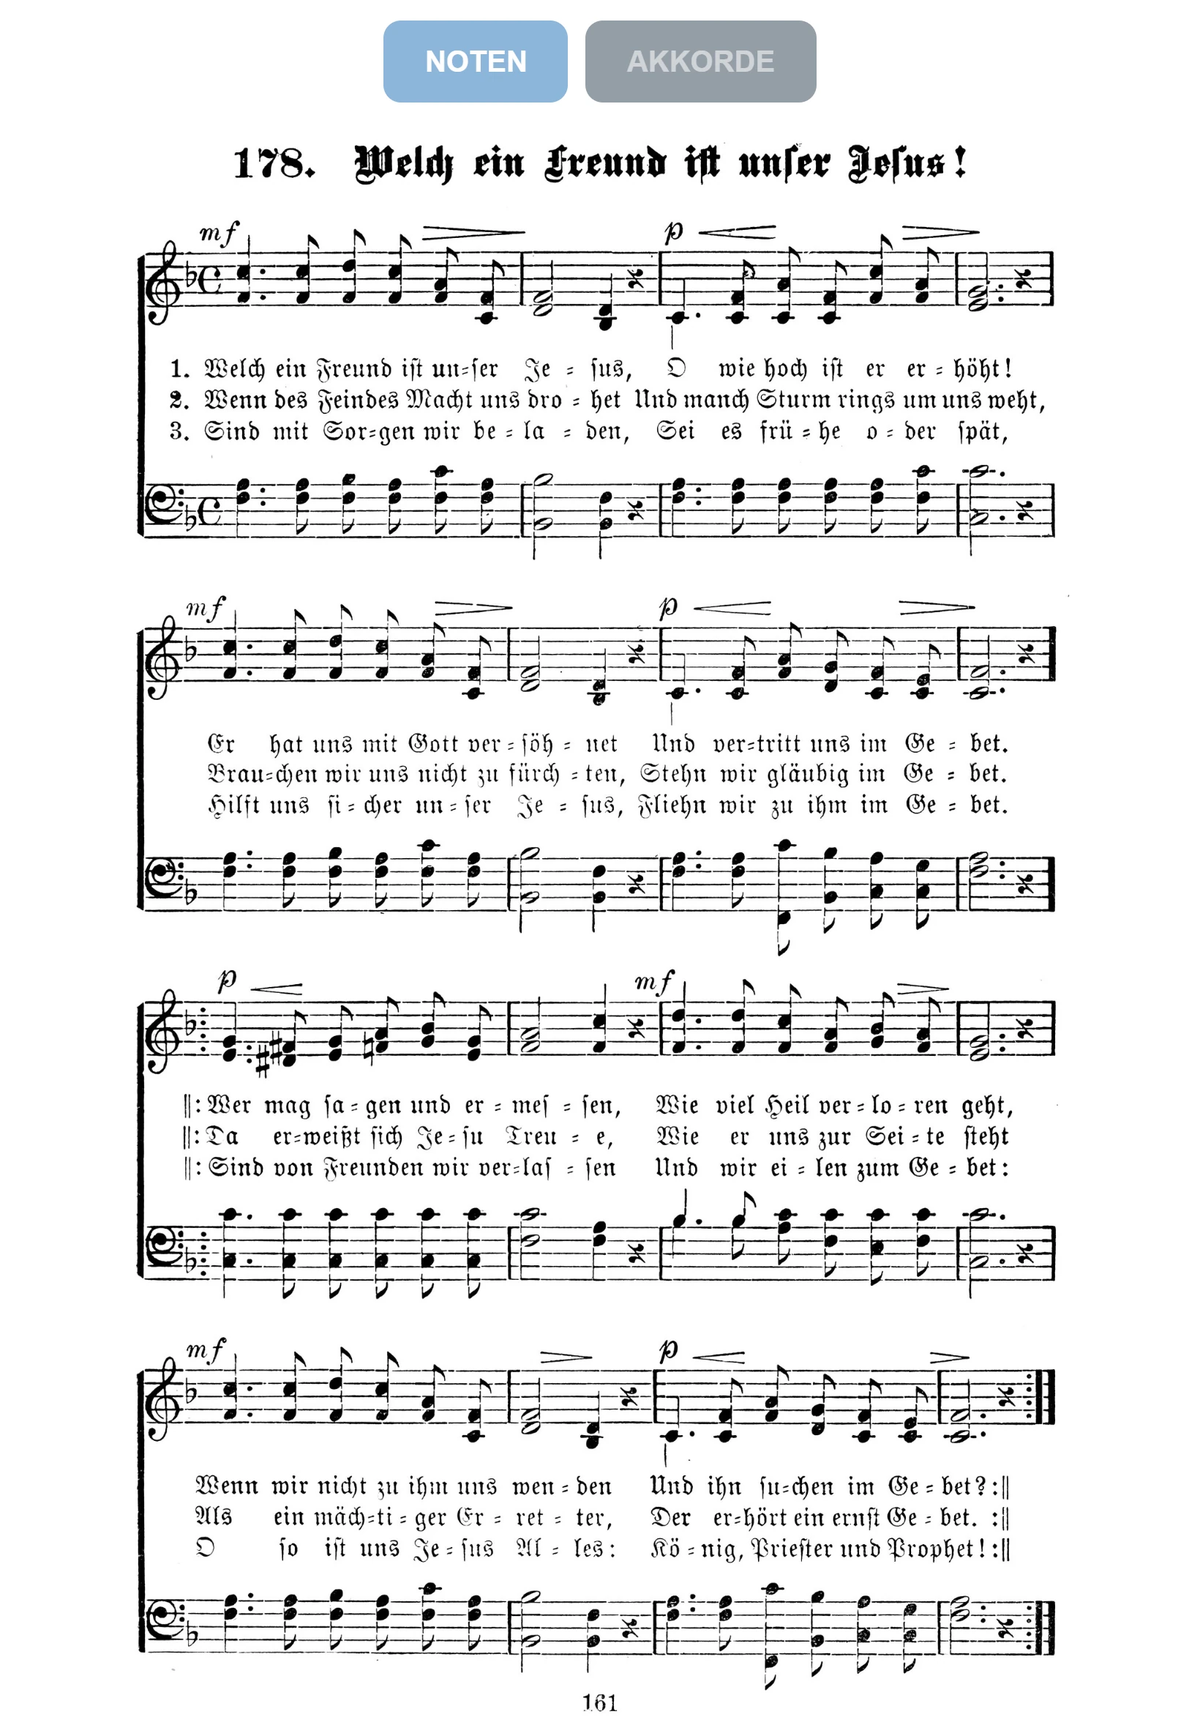
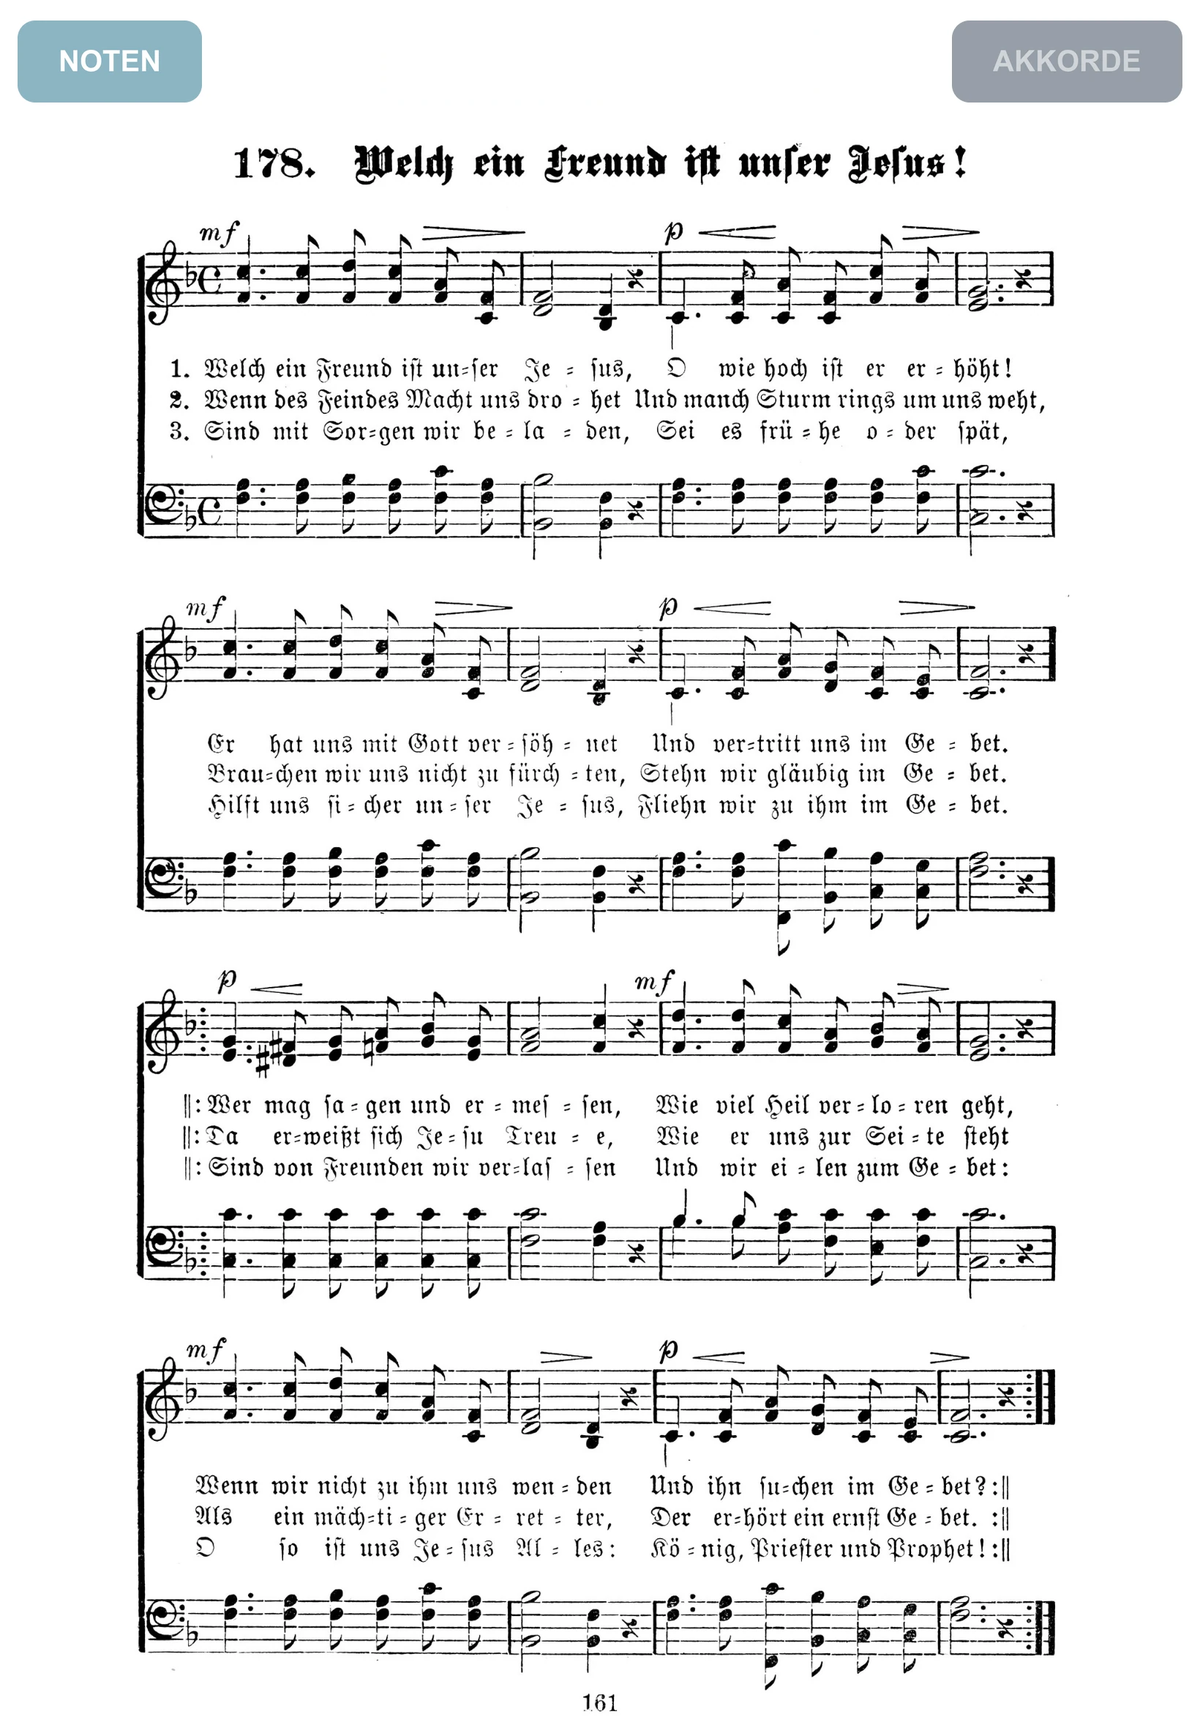
Musician: group buttons pinned to the edges; landing shots updated
- musician.html: .mg-bar justify-content space-between — the first group
  («Ноты») sits at the left edge, the last («Аккорды») at the right one,
  the song title in the middle of the sheet stays readable.
- message.lv: musician shots (all 5 languages) redrawn with the new button
  layout; sermon shots (ru/en/de/lt) repainted with the chip text colours of
  the current display code (fitChipText, Nov 2026) — the active Bible quote
  was blue on blue. pl shows a slide and is unchanged. Shot URLs versioned
  (SHOT_VERSION / ?v=2) so browsers drop the cached old files.

Claude-Session: https://claude.ai/code/session_01CWHqS5LRsXjYAEpUnYvA5j

Changed region(s): [[0.311, 0.0, 0.6841, 0.0619], [0.7774, 0.0, 0.9951, 0.0619], [0.0, 0.0, 0.1866, 0.0619]]

diff --git a/public/message.lv/index.html b/public/message.lv/index.html
@@ -36,11 +36,11 @@
 <section class="summary"><div class="wrap summary-grid"><div class="summary-item"><b data-t="introLibrary">Материалы в одном месте</b><span data-t="introLibraryCopy">Песни, ноты, переводы Библии, Послания и проповеди.</span></div><div class="summary-item"><b data-t="introRoles">Инструменты по роли</b><span data-t="introRolesCopy">У каждого участника свой рабочий экран.</span></div><div class="summary-item"><b data-t="introSync">Обновления без пересылки</b><span data-t="introSyncCopy">Выбранная песня и её куплеты доступны технику.</span></div></div></section>
 <section class="section wrap"><header class="section-head"><div class="eyebrow" data-t="rolesEyebrow">Команда</div><div><h2 data-t="rolesTitle">Для каждого участника есть свой режим</h2><p class="deck" data-t="rolesDeck">Набор действий зависит от того, что человек делает во время служения.</p></div></header><div class="channels"><article class="channel"><span class="channel-icon">🎤</span><h3 data-t="roleLeader">Ведущий</h3><p data-t="roleLeaderCopy">Выбор песен, ноты и возможность самому переключать куплеты.</p></article><article class="channel"><span class="channel-icon">🎸</span><h3 data-t="roleMusician">Музыкант</h3><p data-t="roleMusicianCopy">Актуальная песня, выбранная группа изображений и крупные ноты.</p></article><article class="channel"><span class="channel-icon">🎹</span><h3 data-t="rolePiano">Пианист</h3><p data-t="rolePianoCopy">Личный список песен без влияния на общий экран.</p></article><article class="channel"><span class="channel-icon">👀</span><h3 data-t="roleObserver">Наблюдатель</h3><p data-t="roleObserverCopy">Песни, Библия, Послания и история на телефоне.</p></article><article class="channel"><span class="channel-icon">🖥</span><h3 data-t="roleTech">Техник</h3><p data-t="roleTechCopy">Экраны, тексты, переводы, медиа и плейлист.</p></article><article class="channel"><span class="channel-icon">📖</span><h3 data-t="rolePreacher">Проповедник</h3><p data-t="rolePreacherCopy">Редактор заметок и управление материалами во время речи.</p></article><article class="channel"><span class="channel-icon">⚙</span><h3 data-t="roleAdmin">Администратор</h3><p data-t="roleAdminCopy">Пользователи, сборники, языки, экраны и импорт.</p></article><article class="channel"><span class="channel-icon">📡</span><h3 data-t="roleScreens">Экраны</h3><p data-t="roleScreensCopy">Раздельная выдача для зала и видеотрансляции.</p></article></div></section>
 <section class="section wrap"><header class="section-head"><div class="eyebrow" data-t="scenariosEyebrow">Три сценария</div><div><h2 data-t="scenariosTitle">Как система помогает во время служения</h2><p class="deck" data-t="scenariosDeck">Три обычные задачи: работа с песнями, проведение проповеди и доступ к текстам на телефоне.</p></div></header><div class="scenarios"><article class="scenario"><div class="visual"><button class="zoom"><img loading="lazy" data-scene="worship-hall" src="images/worship-hall-ru.png" alt="Прославление в зале"></button></div><div class="scenario-copy"><h3 data-t="worshipTitle">Прославление в зале</h3><p data-t="worshipCopy">Ведущий собирает порядок песен и выбирает песню. Её куплеты появляются у техника, который обычно переключает их на экранах. При необходимости ведущий может переключать куплеты сам. Музыканты видят ноты или аккорды.</p><div class="tags"><span class="tag" data-t="tagSetlist">Порядок песен</span><span class="tag" data-t="tagNotes">Ноты и аккорды</span><span class="tag" data-t="tagStream">Зал + трансляция</span></div></div></article><article class="scenario"><div class="visual"><button class="zoom"><img loading="lazy" data-scene="sermon-hall" src="images/sermon-hall-ru.png" alt="Проповедь в зале"></button></div><div class="scenario-copy"><h3 data-t="sermonTitle">Подготовка и проведение проповеди</h3><p data-t="sermonCopy">Проповедник готовит личные заметки, вставляет цитаты Библии, изображения, видео и слайды. Во время проповеди одно касание выводит выбранный материал на экран.</p><div class="tags"><span class="tag" data-t="tagPrivate">Личные заметки</span><span class="tag" data-t="tagCitations">Живые цитаты</span><span class="tag" data-t="tagMedia">Слайды и видео</span></div></div></article><article class="scenario"><div class="visual"><button class="zoom"><img loading="lazy" data-scene="outdoor-group" src="images/outdoor-group-ru.png" alt="Группа вне здания"></button></div><div class="scenario-copy"><h3 data-t="groupTitle">Группа в зале и за его пределами</h3><p data-t="groupCopy">Наблюдатели открывают песни, переводы Библии и Послания на телефоне. В групповом режиме их экраны пассивно следуют за ведущим или техником.</p><div class="tags"><span class="tag" data-t="tagQr">Вход по QR</span><span class="tag" data-t="tagLanguages">Несколько языков</span><span class="tag" data-t="tagFollow">Режим следования</span></div></div></article></div></section>
-<section class="section wrap"><header class="section-head"><div class="eyebrow" data-t="uiEyebrow">Интерфейс</div><div><h2 data-t="uiTitle">Так выглядят рабочие экраны</h2><p class="deck" data-t="uiDeck">Снимки действующей системы: пульт техника, редактор проповеди и страницы для телефона.</p></div></header><div class="screens"><figure class="shot wide"><button class="zoom"><img loading="lazy" data-shot="tech" data-alt="uiTechAlt" src="images/ui/ru/tech.webp" width="2880" height="1800" alt="Технический режим: песня на экране, выбран куплет на двух языках"></button><figcaption><span data-t="uiTech">Технический режим</span><span>1440 × 900</span></figcaption></figure><figure class="shot wide"><button class="zoom"><img loading="lazy" data-shot="sermon" data-alt="uiSermonAlt" src="images/ui/ru/sermon.webp" width="2360" height="1640" alt="Проповедь: заметки проповедника и то, что сейчас на экране"></button><figcaption><span data-t="uiSermon">Проповедь</span><span data-t="uiTablet">планшет</span></figcaption></figure><figure class="shot shot-screen"><button class="zoom"><img loading="lazy" data-shot="screen" data-alt="uiScreen" src="images/ui/ru/screen.webp" width="1920" height="1080" alt="Главный экран"></button><figcaption><span data-t="uiScreen">Главный экран</span><span>1920 × 1080</span></figcaption></figure><figure class="shot"><button class="zoom"><img loading="lazy" data-shot="prep" data-alt="uiPrep" src="images/ui/ru/prep.webp" width="2880" height="1800" alt="Подготовка проповеди"></button><figcaption><span data-t="uiPrep">Подготовка проповеди</span><span>1440 × 900</span></figcaption></figure><div class="mobile-row wide"><figure class="shot shot-tablet"><button class="zoom"><img loading="lazy" data-shot="musician" data-alt="uiMusician" src="images/ui/ru/musician.webp" width="1640" height="2360" alt="Музыкант"></button><figcaption><span data-t="uiMusician">Музыкант</span><span data-t="uiTablet">планшет</span></figcaption></figure><figure class="shot"><button class="zoom"><img loading="lazy" data-shot="leader" data-alt="uiLeader" src="images/ui/ru/leader.webp" width="780" height="1688" alt="Ведущий"></button><figcaption><span data-t="uiLeader">Ведущий</span><span data-t="uiMobile">мобильный</span></figcaption></figure><figure class="shot"><button class="zoom"><img loading="lazy" data-shot="observer" data-alt="uiObserver" src="images/ui/ru/observer.webp" width="780" height="1688" alt="Наблюдатель"></button><figcaption><span data-t="uiObserver">Наблюдатель</span><span data-t="uiMobile">мобильный</span></figcaption></figure></div></div></section>
+<section class="section wrap"><header class="section-head"><div class="eyebrow" data-t="uiEyebrow">Интерфейс</div><div><h2 data-t="uiTitle">Так выглядят рабочие экраны</h2><p class="deck" data-t="uiDeck">Снимки действующей системы: пульт техника, редактор проповеди и страницы для телефона.</p></div></header><div class="screens"><figure class="shot wide"><button class="zoom"><img loading="lazy" data-shot="tech" data-alt="uiTechAlt" src="images/ui/ru/tech.webp" width="2880" height="1800" alt="Технический режим: песня на экране, выбран куплет на двух языках"></button><figcaption><span data-t="uiTech">Технический режим</span><span>1440 × 900</span></figcaption></figure><figure class="shot wide"><button class="zoom"><img loading="lazy" data-shot="sermon" data-alt="uiSermonAlt" src="images/ui/ru/sermon.webp?v=2" width="2360" height="1640" alt="Проповедь: заметки проповедника и то, что сейчас на экране"></button><figcaption><span data-t="uiSermon">Проповедь</span><span data-t="uiTablet">планшет</span></figcaption></figure><figure class="shot shot-screen"><button class="zoom"><img loading="lazy" data-shot="screen" data-alt="uiScreen" src="images/ui/ru/screen.webp" width="1920" height="1080" alt="Главный экран"></button><figcaption><span data-t="uiScreen">Главный экран</span><span>1920 × 1080</span></figcaption></figure><figure class="shot"><button class="zoom"><img loading="lazy" data-shot="prep" data-alt="uiPrep" src="images/ui/ru/prep.webp" width="2880" height="1800" alt="Подготовка проповеди"></button><figcaption><span data-t="uiPrep">Подготовка проповеди</span><span>1440 × 900</span></figcaption></figure><div class="mobile-row wide"><figure class="shot shot-tablet"><button class="zoom"><img loading="lazy" data-shot="musician" data-alt="uiMusician" src="images/ui/ru/musician.webp?v=2" width="1640" height="2360" alt="Музыкант"></button><figcaption><span data-t="uiMusician">Музыкант</span><span data-t="uiTablet">планшет</span></figcaption></figure><figure class="shot"><button class="zoom"><img loading="lazy" data-shot="leader" data-alt="uiLeader" src="images/ui/ru/leader.webp" width="780" height="1688" alt="Ведущий"></button><figcaption><span data-t="uiLeader">Ведущий</span><span data-t="uiMobile">мобильный</span></figcaption></figure><figure class="shot"><button class="zoom"><img loading="lazy" data-shot="observer" data-alt="uiObserver" src="images/ui/ru/observer.webp" width="780" height="1688" alt="Наблюдатель"></button><figcaption><span data-t="uiObserver">Наблюдатель</span><span data-t="uiMobile">мобильный</span></figcaption></figure></div></div></section>
 <section class="section wrap"><header class="section-head"><div class="eyebrow" data-t="featuresEyebrow">Возможности</div><div><h2 data-t="featuresTitle">Другие возможности</h2></div></header><div class="systems"><article class="system"><h3 data-t="featureLibrary">Материалы</h3><p data-t="featureLibraryCopy">Полнотекстовый поиск песен, языки контента, переводы Библии, Послания и сохранённые проповеди.</p></article><article class="system"><h3 data-t="featureBible">Параллельная Библия</h3><p data-t="featureBibleCopy">Несколько переводов на одном экране с корректным сопоставлением различающейся нумерации стихов.</p></article><article class="system"><h3 data-t="featureMedia">Медиа</h3><p data-t="featureMediaCopy">Изображения, локальное видео, YouTube, аудио, заставки и синхронизация позиции видео.</p></article><article class="system"><h3 data-t="featureSermons">Проповеди</h3><p data-t="featureSermonsCopy">Автосохранение, форматирование, цитаты, слайды, импорт draw.io и экспорт материалов.</p></article><article class="system"><h3 data-t="featureChannels">Несколько каналов</h3><p data-t="featureChannelsCopy">Главный экран, экран трансляции, отдельный канал нот музыкантам и канал группы наблюдателей.</p></article><article class="system"><h3 data-t="featureAdmin">Управление</h3><p data-t="featureAdminCopy">Роли и доступы, оформление экранов, импорт данных, Google-вход и работа нескольких общин.</p></article></div></section>
 <section class="closing wrap"><div class="closing-box"><div><h2 data-t="closeTitle">Если это полезно вашей церкви, присоединяйтесь.</h2><p data-t="closeCopy">Проект некоммерческий. На странице входа можно отправить запрос на доступ для своей церкви.</p></div><a class="cta" href="https://songs.winsys.lv/login" target="_blank" rel="noreferrer" data-t="closeCta">Открыть систему</a></div></section>
 </main><footer class="wrap footer"><span>🎵 Worship Songs</span><span class="footer-contact"><span data-t="contact">Написать нам</span>: <a href="mailto:info@winsys.lv">info@winsys.lv</a></span><span data-t="footer">Система управления богослужением</span></footer></div>
 <div class="lightbox" role="dialog" aria-modal="true"><button class="lightbox-close" aria-label="Закрыть">×</button><img alt=""></div>
-<script src="content.js?v=5"></script>
+<script src="content.js?v=6"></script>
 </body>
 </html>

diff --git a/public/message.lv/content.js b/public/message.lv/content.js
@@ -216,6 +216,9 @@
     pl: 'Worship Songs — system zarządzania nabożeństwem'
   };
 
+  // Bump when a shot is replaced: the file names stay, browsers keep the old copy.
+  var SHOT_VERSION = { musician: 2, sermon: 2 };
+
   function setLanguage(lang) {
     var dict = COPY[lang] || COPY.ru;
     lang = COPY[lang] ? lang : 'ru';
@@ -245,7 +248,8 @@
       if (scene === 'outdoor-group') image.alt = dict.groupTitle;
     });
     document.querySelectorAll('[data-shot]').forEach(function (image) {
-      image.src = 'images/ui/' + lang + '/' + image.getAttribute('data-shot') + '.webp';
+      var shot = image.getAttribute('data-shot');
+      image.src = 'images/ui/' + lang + '/' + shot + '.webp' + (SHOT_VERSION[shot] ? '?v=' + SHOT_VERSION[shot] : '');
       var alt = dict[image.getAttribute('data-alt')];
       if (alt !== undefined) image.alt = alt;
     });

diff --git a/templates/musician.html b/templates/musician.html
@@ -14,9 +14,10 @@
         -webkit-tap-highlight-color: transparent;
     }
 
-    /* Image-type (group) bar: top of the screen, centred, 50% translucent.
-       Normal window only — the <img> itself goes fullscreen, so nothing else
-       is visible in fullscreen mode. */
+    /* Image-type (group) bar: top of the screen, 50% translucent. The first
+       group is pinned to the left edge and the last to the right one, so the
+       song title in the middle of the sheet stays readable. Normal window
+       only — fullscreen shows the notes alone. */
     .mg-bar {
         position: fixed;
         top: 0;
@@ -24,7 +25,7 @@
         right: 0;
         display: flex;
         flex-wrap: wrap;
-        justify-content: center;
+        justify-content: space-between;
         align-items: flex-start;
         gap: 12px;
         padding: 14px 12px;
